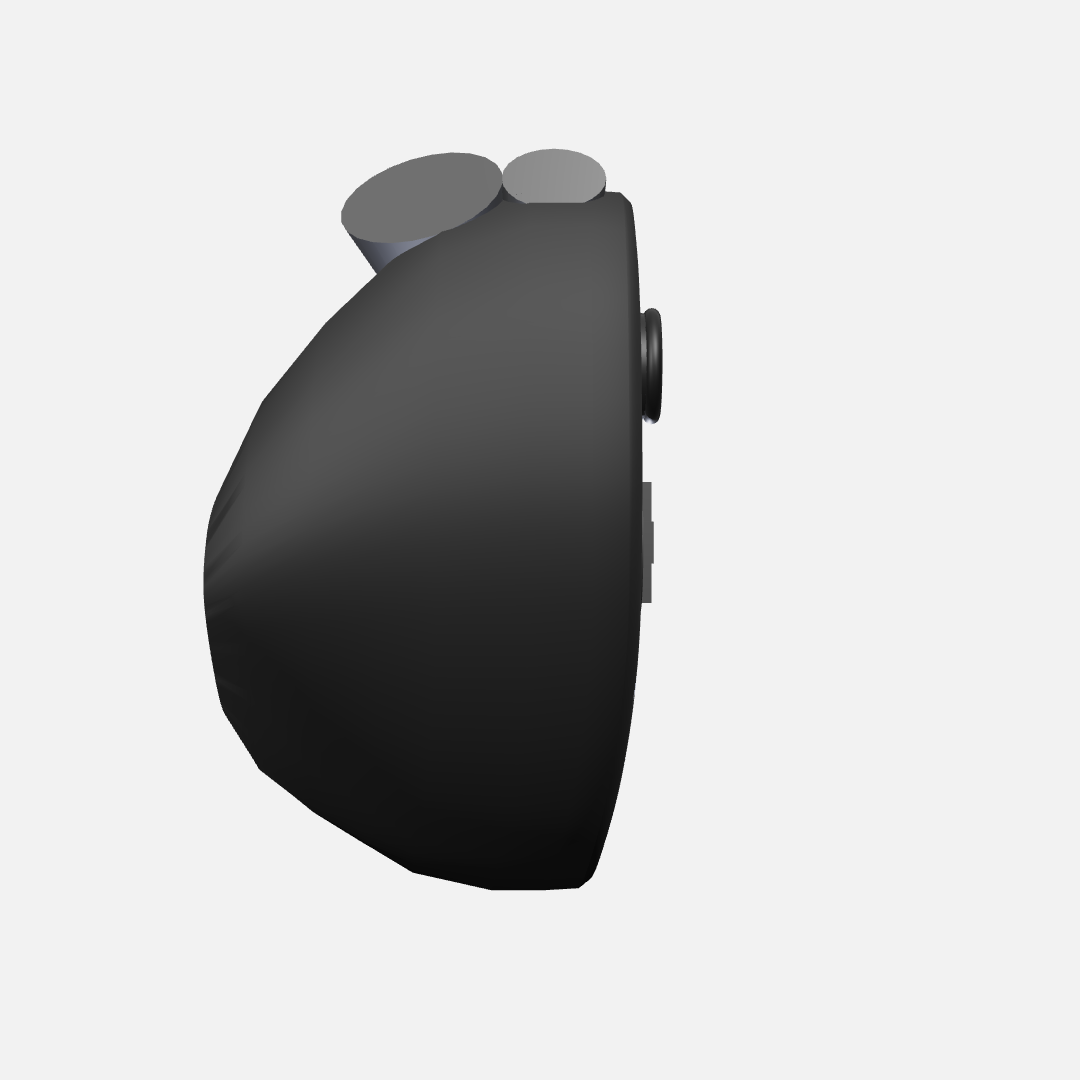
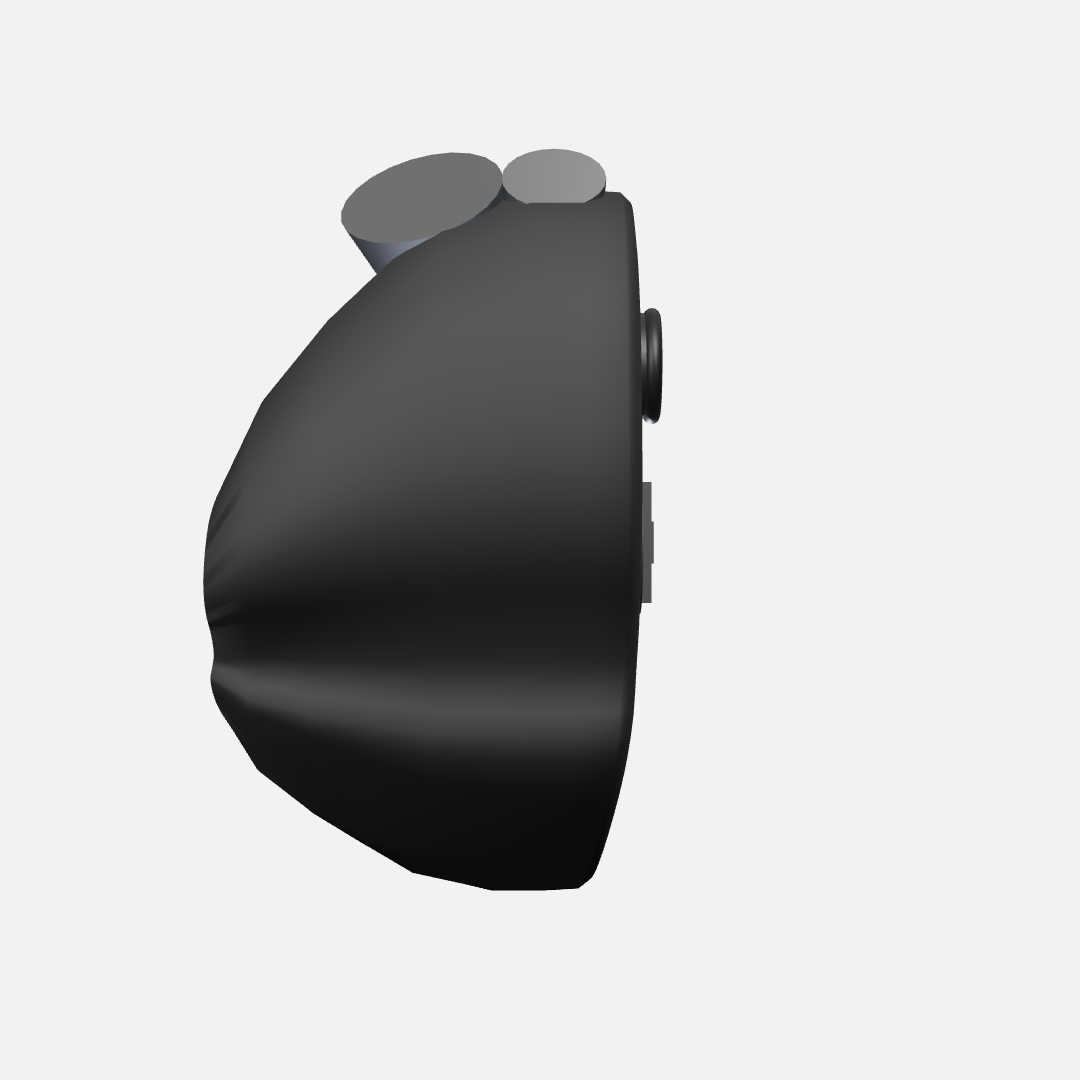
feat(gamepad): grips that neck in, and a form-landmark gate to hold them there
The grips read as one mass with the body because the front outline descended
from the shoulders to the tip monotonically — no waist. A real controller necks
IN below the shoulder (where the thumb wraps) and flares back out into the grip
lobe. Three points on the outer edge now do that: measured, the half-width goes
shoulder 2.00 → waist 1.72 → grip 1.76, so the waist is a genuine local minimum.
The bbox is unchanged (widest still the shoulder, lowest still the tip), so the
silhouette-aspect gate stays satisfied while the SHAPE gains defined grips.

And the tooling the fix asked for. Everything else is checked by a gate —
topology, parts, depth distribution, front silhouette — but FORM (does the
three-quarter shape match: are the grips defined, is there a shelf) was checked
by eye, which is the many-iteration loop the class-input approach exists to end.
formLandmarks.ts adds the depth-profile idea one axis over: the class declares a
shape feature and it is measured on the mesh, no reference photo, no camera pose
to solve, node-testable. The first landmark is this waist — a local width
minimum between shoulder and grip. It passes the necked gamepad and fires on a
slab silhouette (tested against the phone body, which has no neck), so a future
outline edit can't silently revert the grips to one mass.

Built test-driven, not speculatively: the landmark exists because a real form
fix needed locking. The shoulder shelf is the next form feature and will get its
[…]

Changed region(s): [[0.1833, 0.5806, 0.5806, 0.7028]]

diff --git a/src/models/formLandmarks.ts b/src/models/formLandmarks.ts
@@ -1,0 +1,68 @@
+import { Box3, Mesh, Vector3 } from "three";
+import type { Group } from "three";
+import type { WaistLandmark } from "./knowledge/objectClasses";
+import type { ContractViolation } from "./contract";
+
+/**
+ * Form-landmark checks: geometric assertions about the SHAPE that the other gates miss.
+ *
+ * WHY THIS EXISTS. meshHealth checks topology, contract checks parts and proportions, depthProfile
+ * checks how depth is distributed, check-fidelity checks the FRONT silhouette. None of them can say
+ * whether the 3D FORM matches — whether a controller's grips are defined or read as one mass, or
+ * whether a shoulder shelf exists. Those are the features you can only see in a three-quarter view,
+ * and until now they were checked by eye, which is exactly the many-iteration loop the class-input
+ * approach is meant to end.
+ *
+ * A form landmark is the same idea as a depth profile, one axis over: the class declares a shape
+ * feature ("the silhouette necks in below the shoulder"), and this measures it on the mesh. No
+ * reference photo, no camera pose to solve — pure geometry, node-testable. Built test-driven: each
+ * landmark is added when a real form fix needs locking, not speculatively.
+ */
+
+/** Widest half-extent along X within a thin Y band — the silhouette's half-width at that height. */
+export const halfWidthAt = (mesh: Mesh, y: number, band: number): number => {
+  const pos = mesh.geometry.getAttribute("position");
+  let w = 0;
+  for (let i = 0; i < pos.count; i++) {
+    if (Math.abs(pos.getY(i) - y) <= band) w = Math.max(w, Math.abs(pos.getX(i)));
+  }
+  return w;
+};
+
+/**
+ * A WAIST: the silhouette narrows between two wider bands (shoulder above, grip below). A monotonic
+ * taper — the failure that reads as grips fused into one mass — has no local minimum and fails this.
+ *
+ * `atY` are fractions of the mesh's own half-height, so the check is scale-independent.
+ */
+export const checkWaist = (
+  root: Group,
+  landmark: WaistLandmark,
+  severity: "error" | "warning" = "error",
+): ContractViolation[] => {
+  const mesh = root.getObjectByName(landmark.mesh);
+  if (!(mesh instanceof Mesh)) {
+    return [{ kind: "form", severity, detail: `waist landmark names mesh "${landmark.mesh}", not found` }];
+  }
+  mesh.updateWorldMatrix(true, true);
+  const halfH = new Box3().setFromObject(mesh).getSize(new Vector3()).y / 2;
+  const band = halfH * 0.09;
+  const [shoulderF, waistF, gripF] = landmark.atY;
+  const shoulder = halfWidthAt(mesh, shoulderF * halfH, band);
+  const waist = halfWidthAt(mesh, waistF * halfH, band);
+  const grip = halfWidthAt(mesh, gripF * halfH, band);
+  const flank = Math.min(shoulder, grip);
+  if (waist > flank * landmark.ratio) {
+    return [
+      {
+        kind: "form",
+        severity,
+        detail:
+          `silhouette has no waist: half-width at the neck is ${waist.toFixed(3)}, not below ` +
+          `${(flank * landmark.ratio).toFixed(3)} (shoulder ${shoulder.toFixed(3)}, grip ${grip.toFixed(3)}) ` +
+          `— the grips read as one mass with the body rather than necking in`,
+      },
+    ];
+  }
+  return [];
+};

diff --git a/src/models/formLandmarks.test.ts b/src/models/formLandmarks.test.ts
@@ -1,0 +1,31 @@
+import { describe, expect, it } from "vitest";
+import { checkWaist } from "./formLandmarks";
+import { createGamepadModel } from "./gamepad/createGamepadModel";
+import { createPhoneModel } from "./phone/createPhoneModel";
+import { OBJECT_CLASSES } from "./knowledge/objectClasses";
+
+/**
+ * L1 for the form-landmark gate — the tool added the moment the gamepad's grips gained a defined
+ * neck, so a future outline edit can't silently revert them to one mass.
+ */
+describe("checkWaist", () => {
+  it("passes the gamepad — its grips neck in below the shoulder", () => {
+    const { group } = createGamepadModel();
+    expect(checkWaist(group, OBJECT_CLASSES.gamepad.waist!)).toEqual([]);
+  });
+
+  it("fires on a silhouette with no waist (a slab)", () => {
+    // The phone body is a rounded rect — near-constant width through the middle, no neck. Checked
+    // with a waist landmark it must complain: a constant/monotonic silhouette is the 'one mass'
+    // failure the landmark exists to catch.
+    const { group } = createPhoneModel();
+    const v = checkWaist(group, { mesh: "Body", atY: [0.4, 0, -0.4], ratio: 0.99 });
+    expect(v.some((x) => x.kind === "form")).toBe(true);
+  });
+
+  it("reports a missing mesh rather than passing", () => {
+    const { group } = createGamepadModel();
+    const v = checkWaist(group, { mesh: "Nope", atY: [0.2, -0.4, -0.6], ratio: 0.99 });
+    expect(v[0].kind).toBe("form");
+  });
+});

diff --git a/src/models/gamepad/gamepadForm.ts b/src/models/gamepad/gamepadForm.ts
@@ -35,8 +35,13 @@ export const FACE_DEPTH = 28 * U;
 export const FACE_Z = FACE_DEPTH * 0.5;
 
 /**
- * Front silhouette, traced from the reference. It measured 4.4% aspect drift against the photo,
- * so it is kept unchanged — the outline was never the problem.
+ * Front silhouette, traced from the reference. The bbox aspect drifts only 4.4% from the photo, so
+ * the OVERALL size is right — but the outline used to descend from the shoulders to the grip tip
+ * monotonically, and that is exactly why the grips read as one mass with the body. A real
+ * controller necks IN below the shoulder (a concave waist where the thumb wraps) and then flares
+ * back out into the grip lobe. Those three points on the outer edge — waist-in, grip-out — are the
+ * grip definition; the bbox is unchanged (widest is still the shoulder, lowest still the tip), so
+ * the silhouette-aspect gate stays satisfied while the SHAPE gains a defined grip.
  */
 const FRONT_RIGHT: [number, number][] = [
   [0.0, 1.28],
@@ -50,12 +55,13 @@ const FRONT_RIGHT: [number, number][] = [
   [1.86, 0.87],
   [1.97, 0.52],
   [2.0, 0.2],
-  [1.95, -0.08],
-  [1.84, -0.37],
-  [1.7, -0.65],
-  [1.54, -0.91],
-  [1.35, -1.15],
-  [1.13, -1.33],
+  [1.94, -0.06],
+  [1.79, -0.3], // waist begins — the outer edge draws in below the shoulder
+  [1.70, -0.53], // narrowest of the neck
+  [1.76, -0.74], // grip flares back out into its lobe (rounded, not winged)
+  [1.62, -0.96],
+  [1.4, -1.16],
+  [1.15, -1.33],
   [0.87, -1.41],
   [0.68, -1.32],
   [0.52, -1.12],

diff --git a/src/models/knowledge/objectClasses.ts b/src/models/knowledge/objectClasses.ts
@@ -125,11 +125,25 @@ export interface DepthProfile {
   severity?: "error" | "warning";
 }
 
+/**
+ * A silhouette waist: the outline narrows between the shoulder and the grip. Declaring it makes
+ * "the grips are defined, not one mass" a checkable fact instead of an eyeball call — see
+ * formLandmarks.ts. atY are fractions of the mesh half-height: [shoulder, waist, grip].
+ */
+export interface WaistLandmark {
+  mesh: string;
+  atY: [number, number, number];
+  /** Waist half-width must be ≤ min(shoulder, grip) × ratio. Below 1 requires a real neck. */
+  ratio: number;
+}
+
 export interface ObjectClass {
   id: string;
   /** Overall bounding box of a representative specimen. */
   boundingMm: { width: number; height: number; depth: number };
   source: string;
+  /** A form landmark: the silhouette necks in below the shoulder (a defined grip). */
+  waist?: WaistLandmark;
   /**
    * How much this entry can be trusted to gate on. "sourced" = every fact carries published or
    * measured provenance, so a violation FAILS. "drafted" = some fact is recalled or derived, so a
@@ -164,6 +178,11 @@ export const OBJECT_CLASSES: Record<string, ObjectClass> = {
     // per-sub-part depths — not Wikipedia infoboxes, not Wikidata, not PartNet. That figure stays
     // hand-authored, so the entry warns rather than blocks.
     status: "drafted",
+    // The grips neck in below the shoulder. Measured on the good model: half-width shoulder 2.00,
+    // waist 1.72, grip 1.76 → waist is a local minimum (0.977 of the grip). The old monotonic
+    // outline had no such minimum (grip < waist), which is exactly why the grips read as one mass.
+    // Gate 0.99 requires the neck to be real, not marginal.
+    waist: { mesh: "Body", atY: [0.19, -0.375, -0.56], ratio: 0.99 },
     // Housing shallower than grips. The check compares the DEEPEST housing probe to the MEDIAN grip
     // (see depthProfile.ts): measured max-housing/median-grip = 0.72, so the 0.85 gate clears it by
     // ~15% and fails the puffy bug (which drives the ratio to ~1.0). The blind band is 0.72–0.85: a

diff --git a/src/models/contract.ts b/src/models/contract.ts
@@ -2,6 +2,7 @@ import { Box3, DoubleSide, Mesh, Object3D, Quaternion, Raycaster, Vector3 } from
 import { inspectMesh } from "./meshHealth";
 import { FACE_NORMAL, OBJECT_CLASSES } from "./knowledge/objectClasses";
 import { checkDepthProfile } from "./depthProfile";
+import { checkWaist } from "./formLandmarks";
 import type { Group } from "three";
 
 /**
@@ -416,6 +417,7 @@ export interface ContractViolation {
     | "under-count"
     | "wrong-face"
     | "depth"
+    | "form"
     | "waived"
     | "buried"
     | "floating"
@@ -535,8 +537,12 @@ export const checkPartsContract = (
     violations.push(
       ...checkRequiredParts(root, present, contract.classId, contract.omittedParts),
     );
-    const profile = OBJECT_CLASSES[contract.classId]?.depthProfile;
-    if (profile) violations.push(...checkDepthProfile(root, profile));
+    const cls = OBJECT_CLASSES[contract.classId];
+    if (cls?.depthProfile) violations.push(...checkDepthProfile(root, cls.depthProfile));
+    if (cls?.waist) {
+      const severity = cls.status === "sourced" ? "error" : "warning";
+      violations.push(...checkWaist(root, cls.waist, severity));
+    }
   }
 
   if (contract.surfaceAxis !== null) {